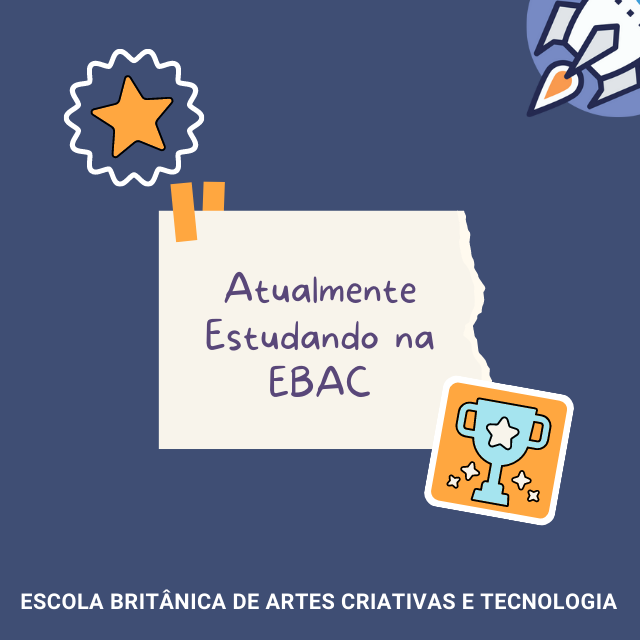
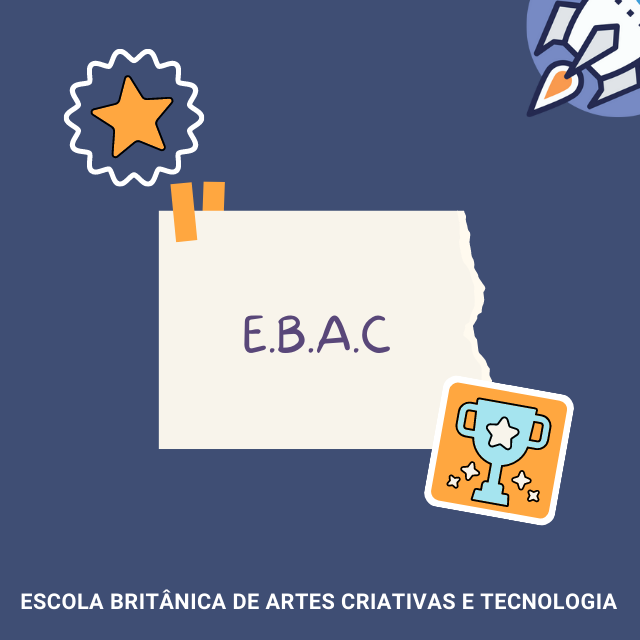
ajustar os textos_ deletar coluna e colocar dentro de um flex

Changed region(s): [[0.3125, 0.4062, 0.6875, 0.625]]

diff --git a/index.html b/index.html
@@ -246,37 +246,44 @@
     <section id="colors-t" class="box">
        <div class="container">  <!-- CONTAINER ELIMINADO -->
         <div class="row">
-          <div class="col-md-4 user-select-none">
-            
-            <h2>Objetivos</h2>
-          
+          <div class="col-md-4 mt-5 user-select-none">
+
+         
             <h3>Estudos</h3>
            
             <p>Atualmente estudando na EBAC (Escola britânica de artes criativas e tecnologia), também estudando sobre o CRM Salesforce. 
             </p>
-        
-            <h3>Foco</h3>
-            <p>Tornar-se um desenvolvedor fullstack.
-            </p>
-
-            <h3>2022</h3>
-            <p>Terminar meu curso Profissão Engenheiro frontend.
-            </p>
+           
 
             <h3>Freelancer</h3>
             <p>Disponível para pessoa física e empresas privadas desenvolvendo aplicações (Websites) como Frontend.
             </p>
+            
+            <!-- <h2>Objetivos</h2> -->
+
+            <h3>2022</h3>
+            <p>Terminar meu curso de frontend.
+            </p>
+          
+            <h3>2023</h3>
+            <p>Aprender Flutter.
+
+              <!-- <h3>Foco</h3>
+              <p>Tornar-se um desenvolvedor fullstack.
+              </p> -->
+
+            
 
           </div>
-          <div class="col-md-8">
-            <div class="row giro">
-              <div class="col-md-6 mr-2">
+         
+      
+              <div class="col-md-4 mt-4 giro">
                 <div class="photo-style-one" onClick="vivifyAddTwo()">
 
                   <div class="ps-text">
                       
-                      <h1>Web Developer</h1>
-                      <h3>Connectivity Expert</h3>
+                      <h1>Desenvolvimento Web</h1>
+                      <h3></h3>
                   
                   </div>
                   
@@ -379,7 +386,7 @@
                   
                   </div> 
               </div>
-              <div class="col-md-6 px-5 ">
+              <div class="col-md-4 mt-4 giro">
                 <div class="graph-style" onClick="vivifyAdd()">
 
 
@@ -394,12 +401,12 @@
                       
                           </div>
                       </div>
-                  
                       <div class="hamb-cont">
+                      <div class="hamb-cont-deep">
                           <div class="m-hamb"></div>
                           <div class="m-hamb"></div>
                           <div class="m-hamb"></div>
-                  
+                      </div>
                       </div>
                   
                       <div class="graph-dsgn">
@@ -417,8 +424,8 @@
                       <h1 class="text-tv" onClick="vivifyShake()">The secret walking</h1>
                   
                   
-                     
-                      <div class="terminal-cont" onClick="vivifySpin()">
+                     <div class="terminal-cont">
+                      <div class="terminal-cont-deep" onClick="vivifySpin()">
                           <div class="term-header">
                              
                           <div class="term-balls">
@@ -456,8 +463,8 @@
                       
                       </div>
                       
-                      </div> <!-- TERMINAL CONT -->
-                  
+                      </div> <!-- TERMINAL CONT DEEP-->
+                    </div>
                   
                   </div> 
                   
@@ -467,7 +474,7 @@
                   
                  
               </div>
-            </div>
+          
           </div>
         </div>
       </div>

diff --git a/assets/css/graph-small.css b/assets/css/graph-small.css
@@ -1,9 +1,3 @@
-@import url('https://fonts.googleapis.com/css2?family=DM+Serif+Display&display=swap');
-@import url('https://fonts.googleapis.com/css2?family=DM+Sans:wght@400;500;700&family=DM+Serif+Display&display=swap');
-@import url('https://fonts.googleapis.com/css2?family=Roboto+Slab:wght@300;400;600;700;900&display=swap');
-@import url('https://fonts.googleapis.com/css2?family=JetBrains+Mono:wght@100;200;300;400&family=Roboto+Slab:wght@300;400;600;700;900&display=swap');
-
-
 
 .graph-style {
     display: flex;
@@ -154,14 +148,21 @@
     
     /* HAMB CONT */
     
-    
     .hamb-cont {
+
+        display: flex;
+        justify-content: center;
+        
+    }
+
+
+    
+    .hamb-cont-deep {
     
         position: relative;
         display: flex;
         flex-direction: column;  
-        justify-content: center;
-        left: 124px;
+       right: 15px;
         bottom: 32px;
     
     }
@@ -184,19 +185,28 @@
     /* TERMINAL DESIGN */
     
     
-    
     .terminal-cont {
+
+        display: flex;
+        justify-content: center;
+
+    }
+
+    .terminal-cont-deep {
     
     
         display: flex;
         position: relative;
+      
         width: 300px;
         height: 210px;
         background: linear-gradient(rgb(35, 43, 59), rgb(10, 33, 48));
         border-radius: 10px;
         flex-direction: column;
         opacity: 1.0 !important;
-        z-index: 2;
+
+        justify-content: center;
+     
     
     }
     

diff --git a/assets/css/figure.css b/assets/css/figure.css
@@ -1,6 +1,3 @@
-@import url('https://fonts.googleapis.com/css2?family=DM+Serif+Display&display=swap');
-@import url('https://fonts.googleapis.com/css2?family=DM+Sans:wght@400;500;700&family=DM+Serif+Display&display=swap');
-@import url('https://fonts.googleapis.com/css2?family=Roboto+Slab:wght@300;400;600;700;900&display=swap');
 
 
 
@@ -10,7 +7,7 @@ position: relative;
 display: flex;
 width: 358px;
 height: 580px;
-background: linear-gradient(#040507, #0c0c0c);
+background: linear-gradient(#060704, #0c0c0c);
 border-radius: 6px;
 flex-direction: column;
 opacity: 0.9;
@@ -20,30 +17,30 @@ cursor: pointer;
 
 .ps-text {
 position: relative;
-top: 50px;
+top: 55px;
 display: flex;
 flex-direction: column;
 align-items: center;
 }
 
 .photo-style-one .ps-text h1 {
-    color: #fff !important;
+    color: var(--w) !important;
     user-select: none;
     font-family: 'Roboto Slab', sans-serif;
-    font-size: 3.5rem;
+    font-size: 2.5rem;
     font-weight: 700;
     line-height: 1.0;
     text-align: center;
 }
 
 .photo-style-one h3 {
-    color: #fff !important;
+    color: var(--w) !important;
     user-select: none;
     line-height: 0.7;
     flex-direction: flex-start;
-    font-family: 'DM Sans', sans-serif  !important;
-    font-size: 2rem;
-    font-weight: 100;
+    font-family: 'DM Sans', sans-serif;
+    font-size: 27.4px;
+    font-weight: 600;
     text-align: center;
    
     

diff --git a/assets/css/style.css b/assets/css/style.css
@@ -1,6 +1,12 @@
 @import url('https://fonts.googleapis.com/css2?family=Poppins:wght@200;300;400;500;600;700;900&family=Roboto:wght@100;300;400;500;700&display=swap');
 @import url('https://fonts.googleapis.com/css2?family=Libre+Baskerville:wght@400;700&family=Poppins:wght@200;300;400;500;600;700;900&family=Roboto:wght@100;300;400;500;700&display=swap');
 @import url('https://fonts.googleapis.com/css2?family=DM+Mono:wght@300;400;500&family=Libre+Baskerville:wght@400;700&family=Poppins:wght@200;300;400;500;600;700;900&family=Roboto:wght@100;300;400;500;700&display=swap');
+@import url('https://fonts.googleapis.com/css2?family=JetBrains+Mono:wght@100;200;300;400&family=Roboto+Slab:wght@300;400;600;700;900&display=swap');
+@import url('https://fonts.googleapis.com/css2?family=DM+Serif+Display&display=swap');
+@import url('https://fonts.googleapis.com/css2?family=DM+Sans:wght@400;500;700&family=DM+Serif+Display&display=swap');
+@import url('https://fonts.googleapis.com/css2?family=Roboto+Slab:wght@300;400;600;700;900&display=swap');
+@import url('https://fonts.googleapis.com/css2?family=DM+Serif+Display&display=swap');
+@import url('https://fonts.googleapis.com/css2?family=DM+Sans:wght@400;500;700&family=DM+Serif+Display&display=swap');
 
 
 
